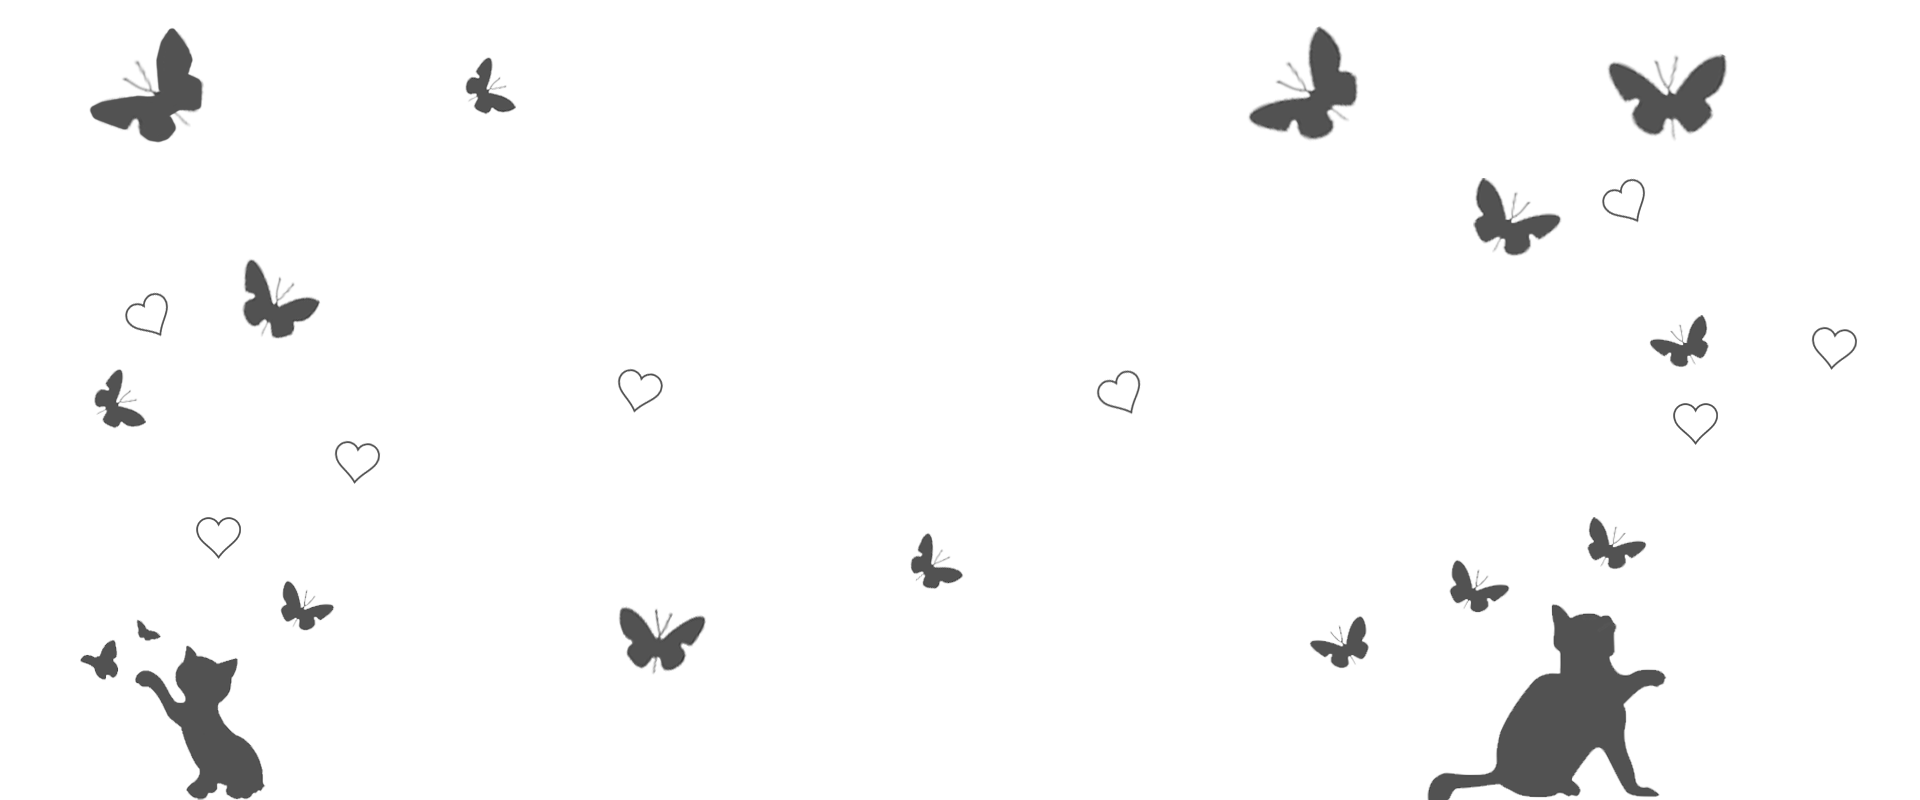
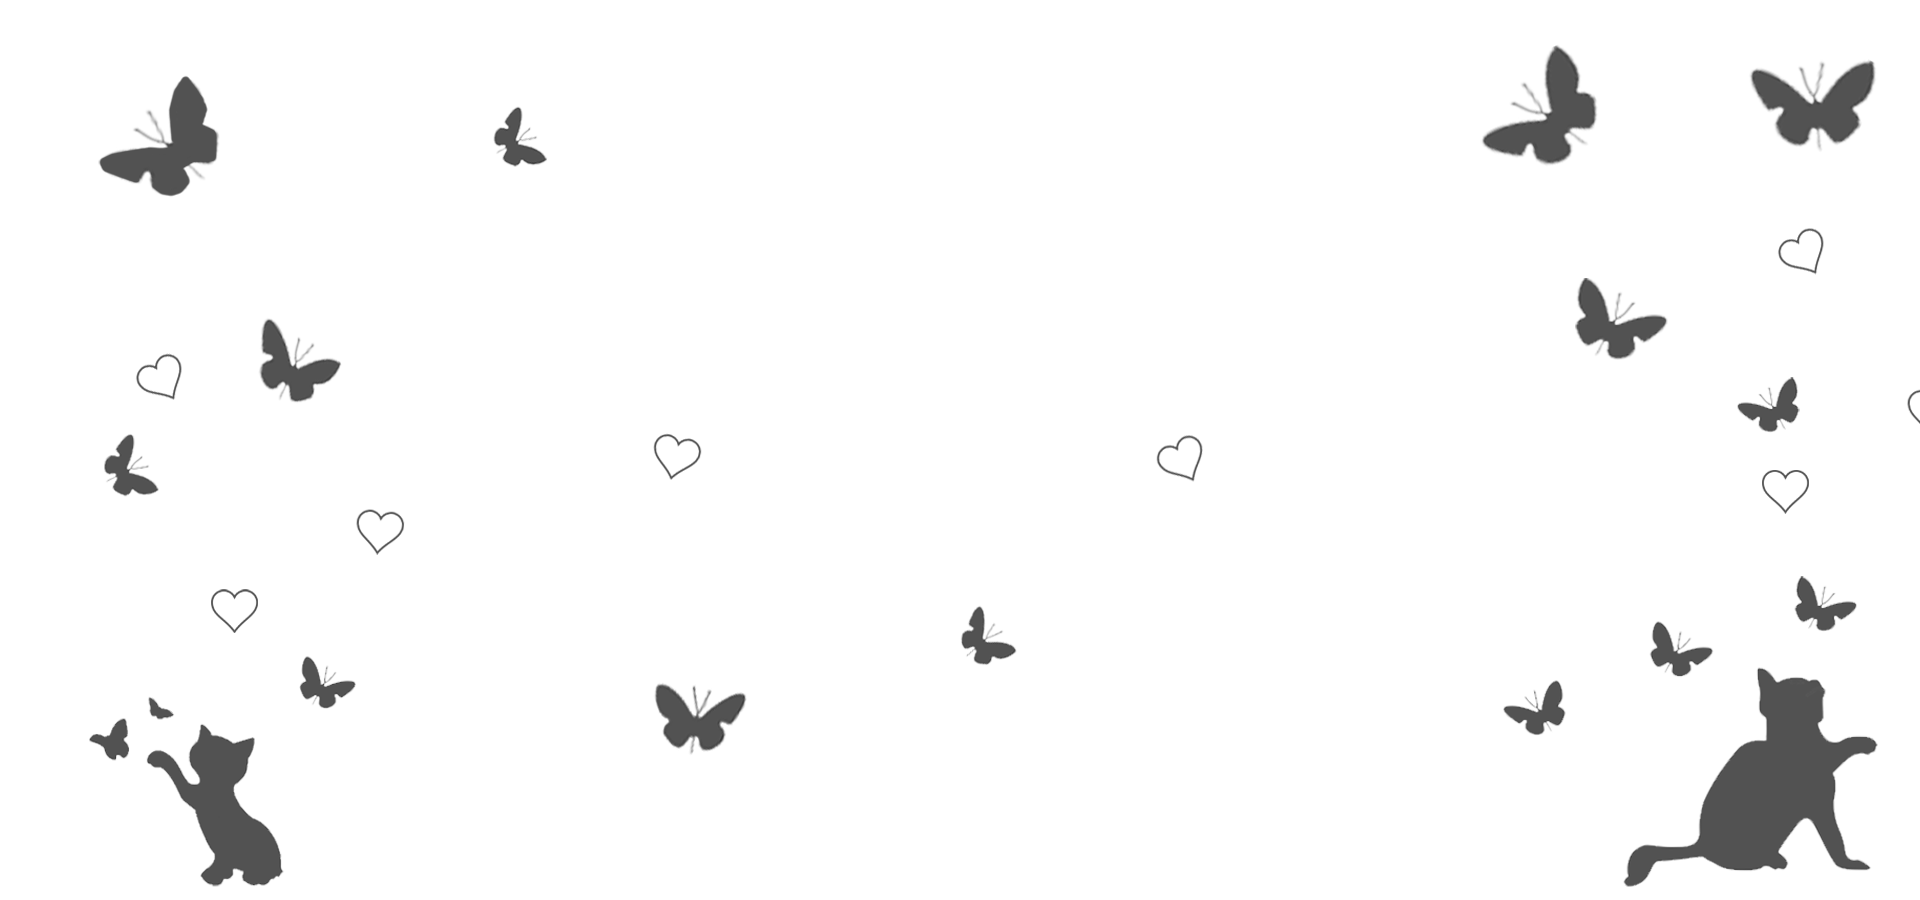
new commit

diff --git a/src/index.css b/src/index.css
@@ -204,13 +204,13 @@ ul .cart a li:hover {
 /*Logo FurrrSale*/
 
 .h2 {
-  height: 800px;
-  width: 1750px;
+  height: 900px;
+  width: 1920px;
   display: flex;
   flex-direction: column;
   align-items: center;
   justify-content: center;
-  font-size: 30px;
+  font-size: 40px;
   color: #313131;
   background-image: url(./images/newbackground.png);
   object-fit: contain;
@@ -224,13 +224,13 @@ h2 {
   background-color: #ffffff;
   border-radius: 8px;
   font-family: "Lobster", cursive;
-  font-size: 60px;
+  font-size: 70px;
 }
 
 /*Slogan*/
 
 .h2 p {
-  font-size: 16px;
+  font-size: 20px;
   font-family: "Lobster", cursive;
 }
 
